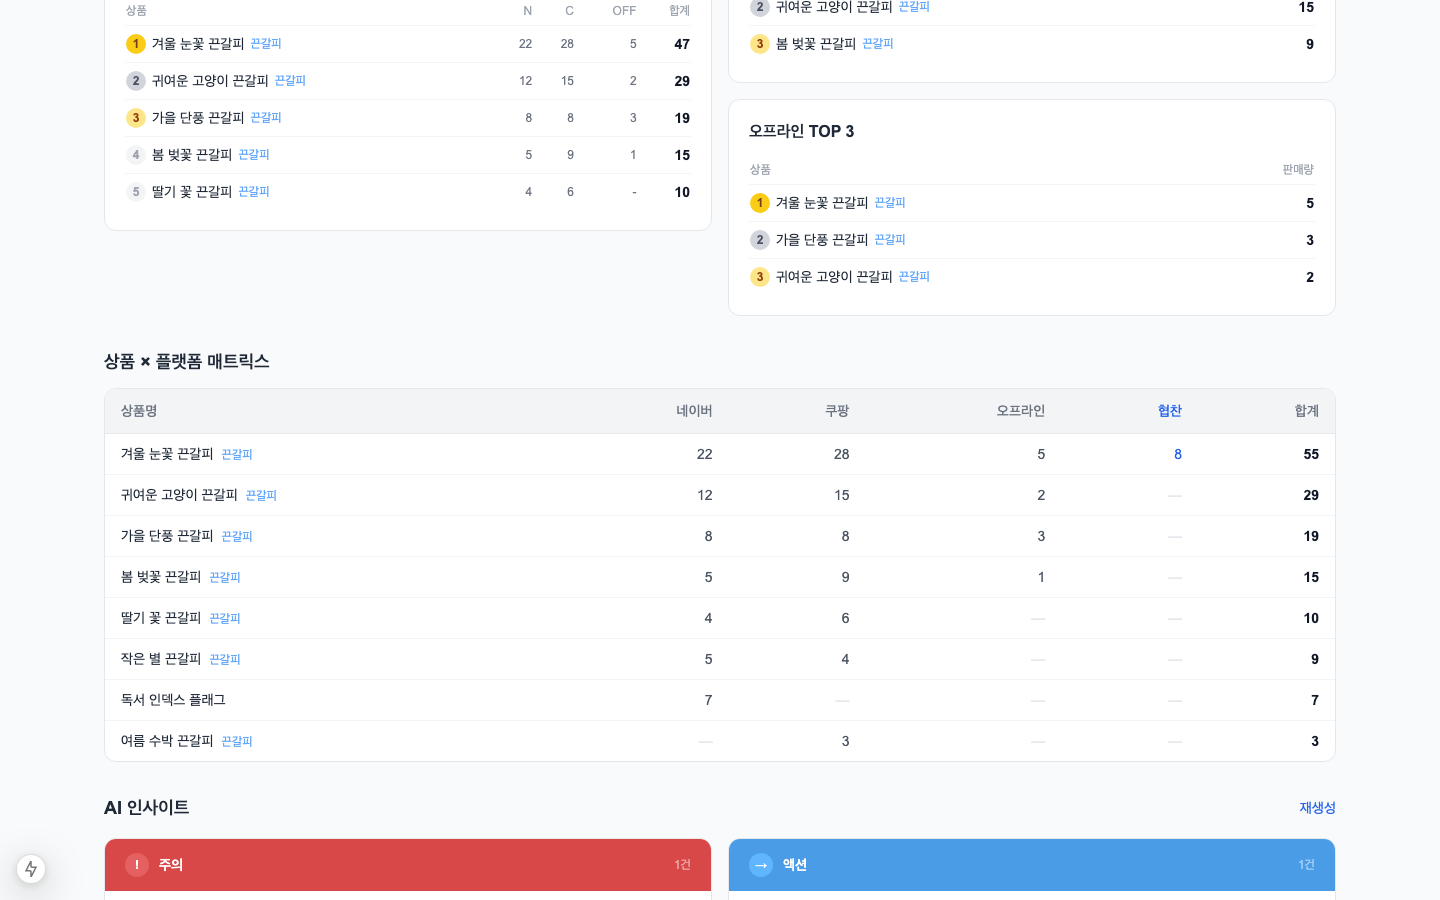
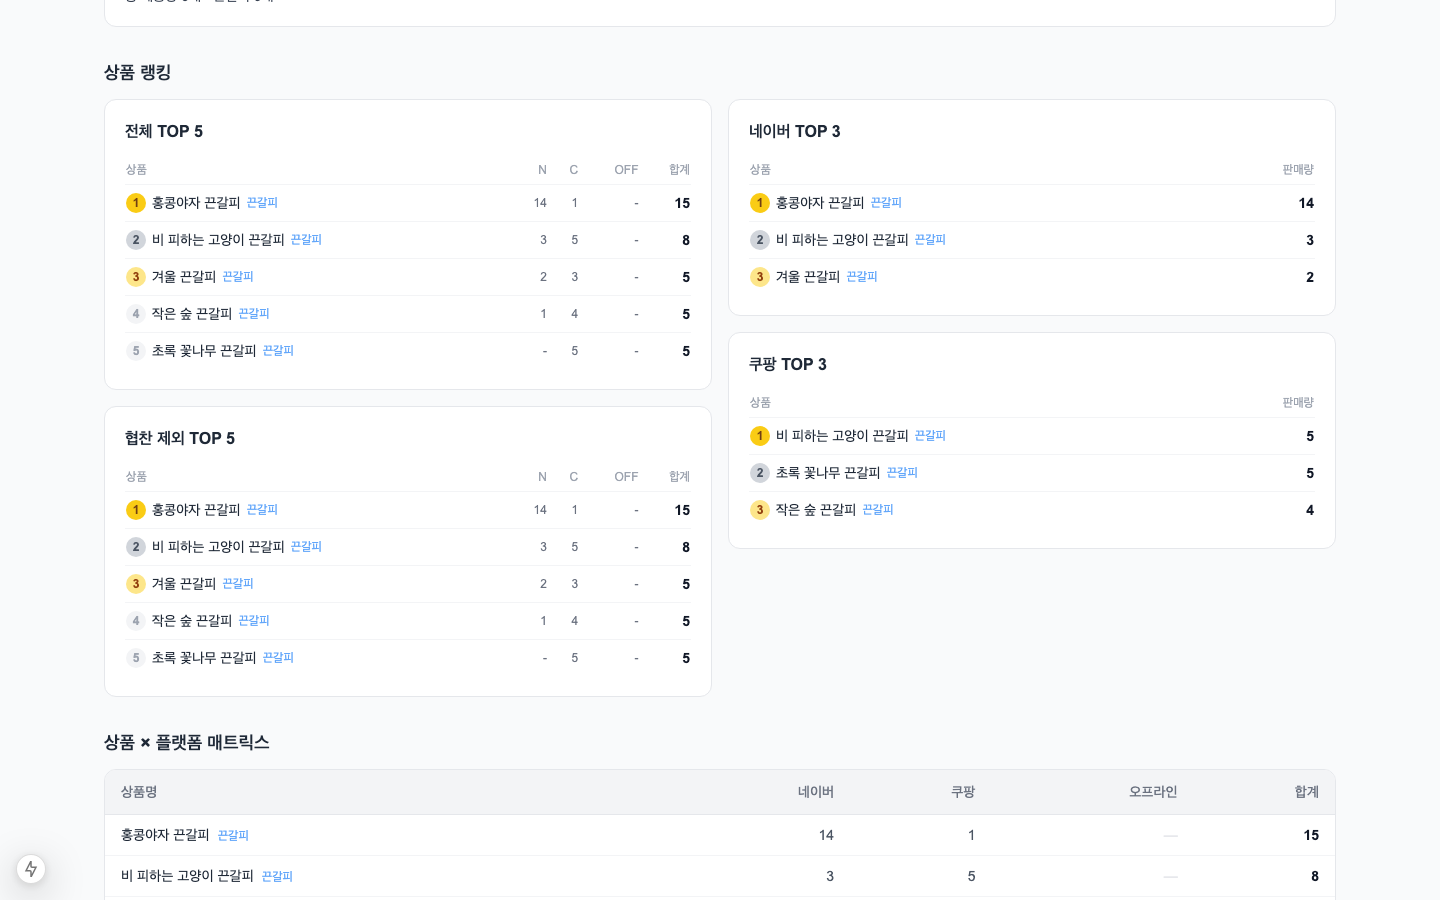
docs: 스크린샷 분리 및 개발 배경 문구 수정
- 상품 랭킹 & AI 인사이트 스크린샷을 각각 분리하여 촬영
- 개발 배경: 인사이트 추출 시간 포함하도록 문구 수정

diff --git a/README.md b/README.md
@@ -34,10 +34,15 @@
 
 ![월별 대시보드](screenshots/05_monthly_top.png)
 
-### 상품 랭킹 & AI 인사이트
-플랫폼별 TOP3 랭킹, 상품 × 채널 매트릭스, Groq AI가 생성한 행동 가능한 인사이트 카드.
+### 상품 랭킹 & 플랫폼 매트릭스
+전체·플랫폼별 TOP5 랭킹과 상품 × 채널 수량 교차표를 확인합니다.
 
-![랭킹 & AI 인사이트](screenshots/08_monthly_insights.png)
+![상품 랭킹](screenshots/07_monthly_ranking.png)
+
+### AI 인사이트
+Groq AI가 생성한 긍정·주의·관찰·액션 카테고리별 인사이트 카드.
+
+![AI 인사이트](screenshots/08_monthly_insights.png)
 
 ---
 
@@ -56,7 +61,7 @@
 
 ## 개발 배경
 
-핸드메이드 끈갈피(비즈 책갈피)를 네이버 스마트스토어와 쿠팡에서 판매하면서, 매월 판매 데이터를 각 플랫폼에서 수동으로 정리하는 작업에 2~3시간이 소요됐습니다.
+핸드메이드 끈갈피(비즈 책갈피)를 네이버 스마트스토어와 쿠팡에서 판매하면서, 매월 판매 데이터를 각 플랫폼에서 수동으로 정리하고 인사이트를 추출하는 작업에 2~3시간이 소요되었습니다.
 
 **Claude Code**를 활용한 AI pair programming으로 타입 시스템 설계부터 스크레이퍼, 비즈니스 로직, API, 대시보드 UI까지 **4일 만에** 설계·구축했습니다.
 
